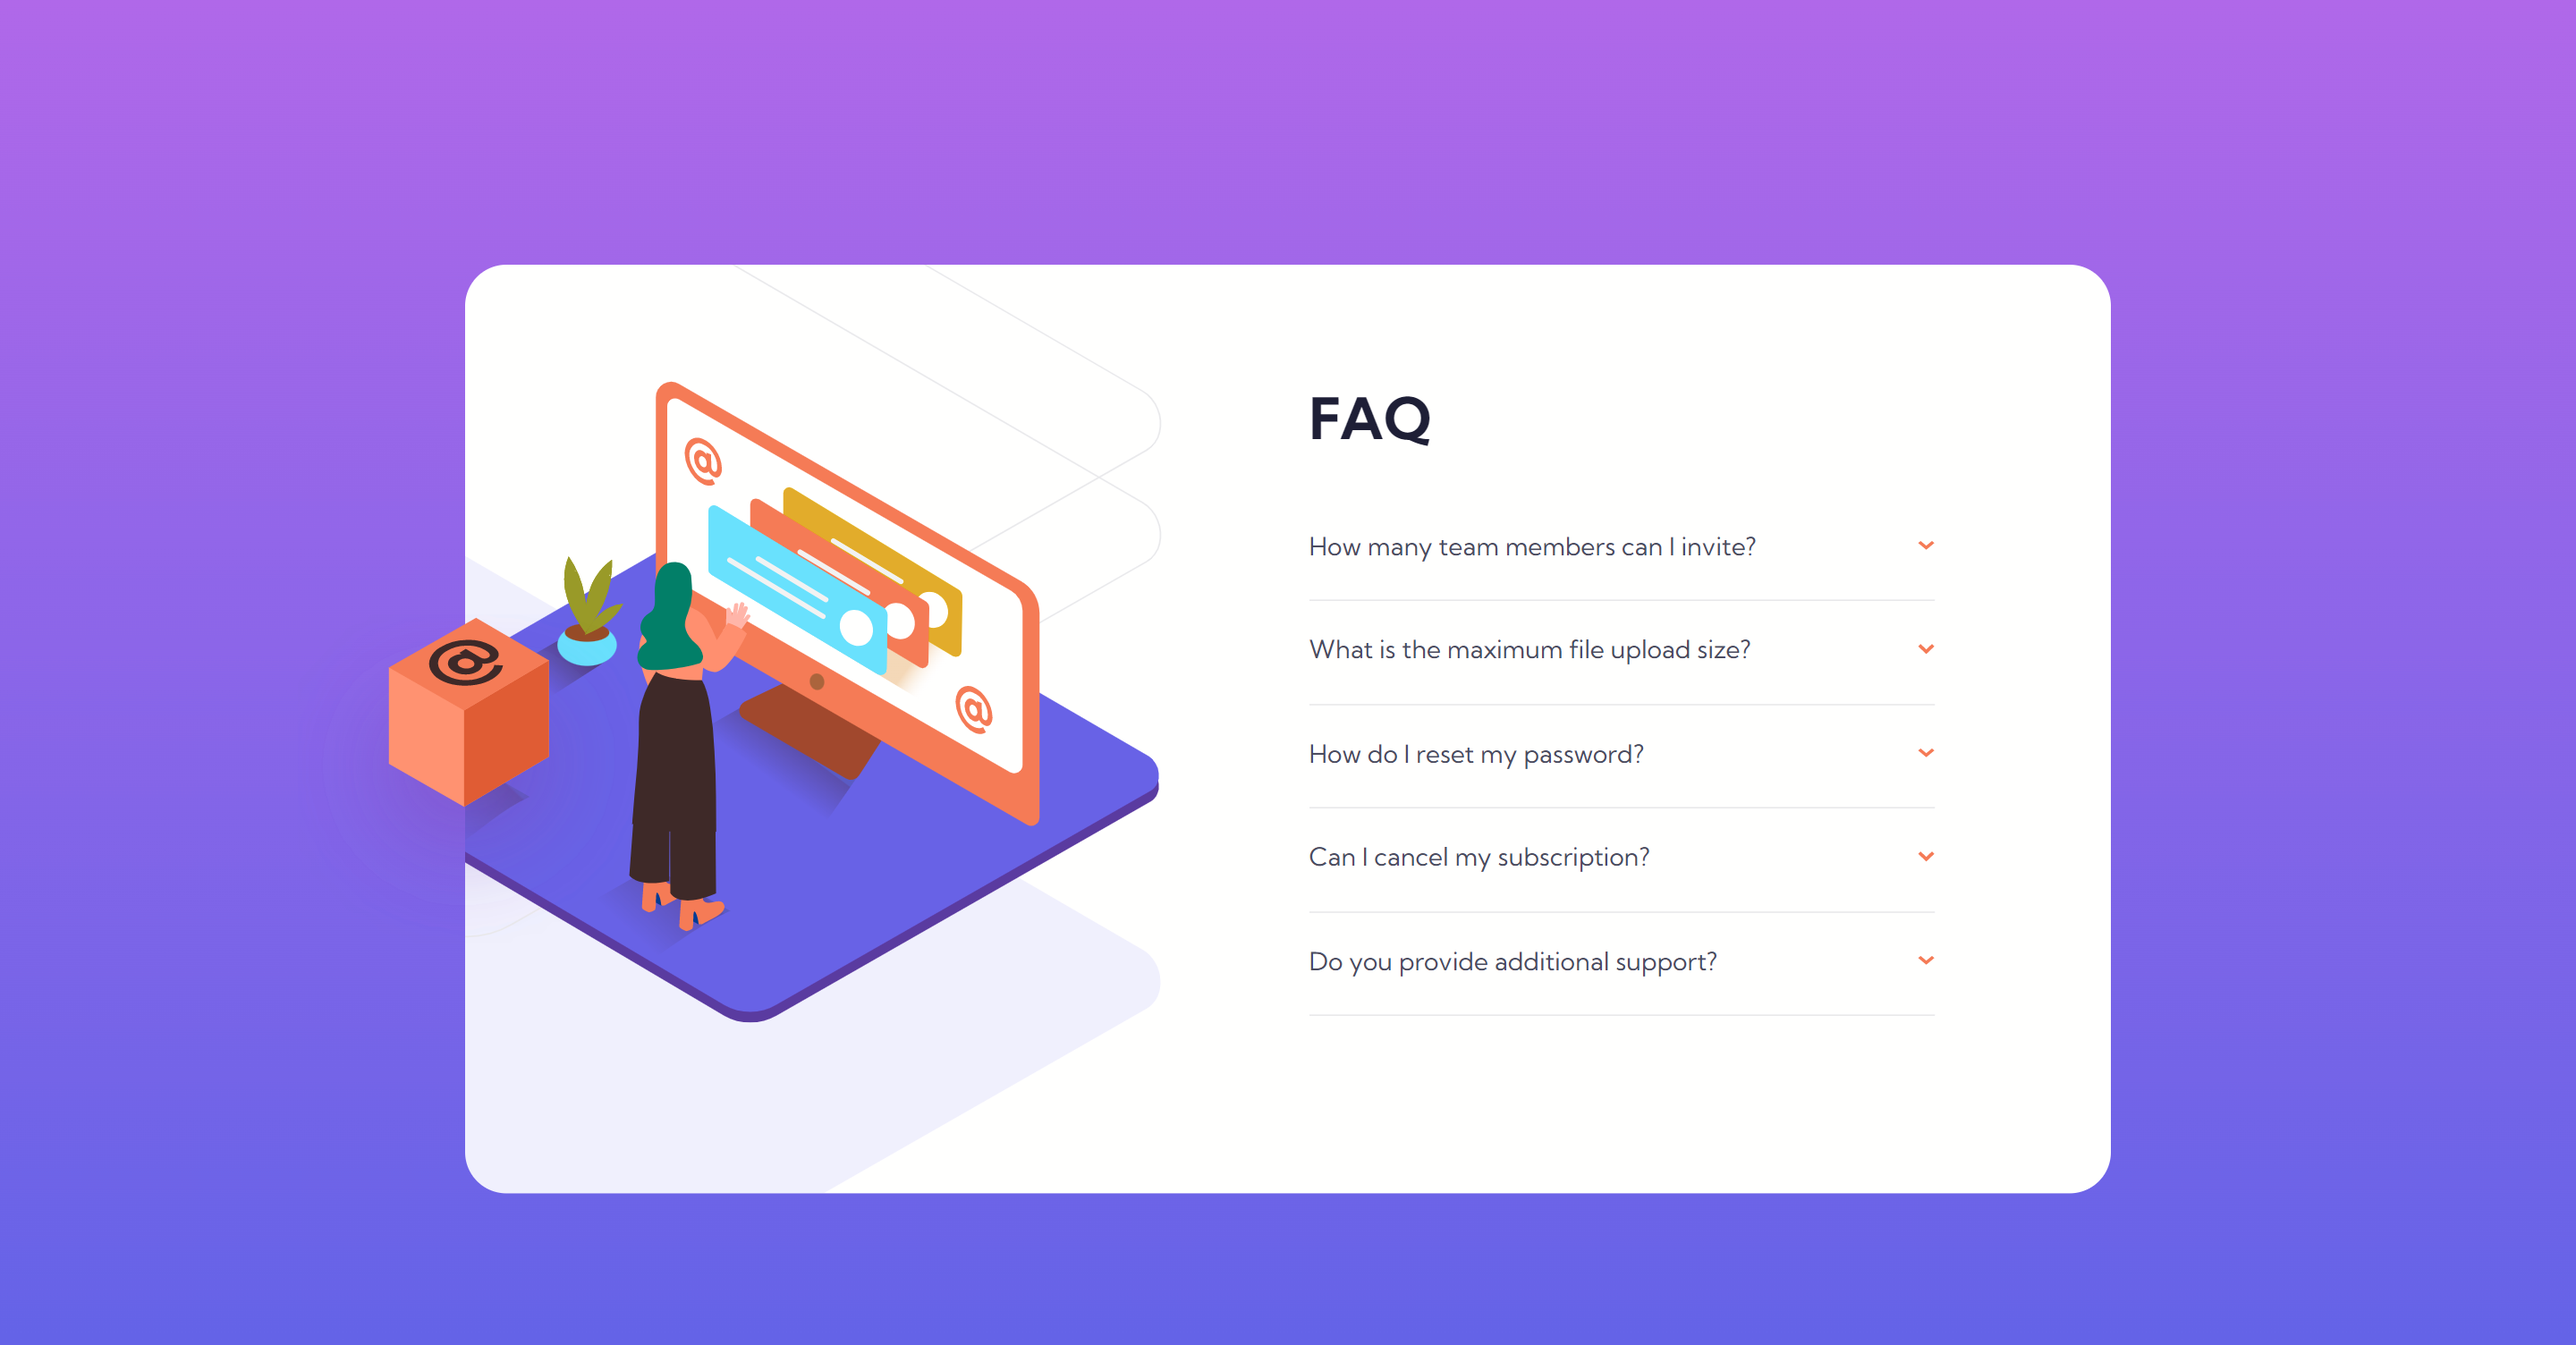
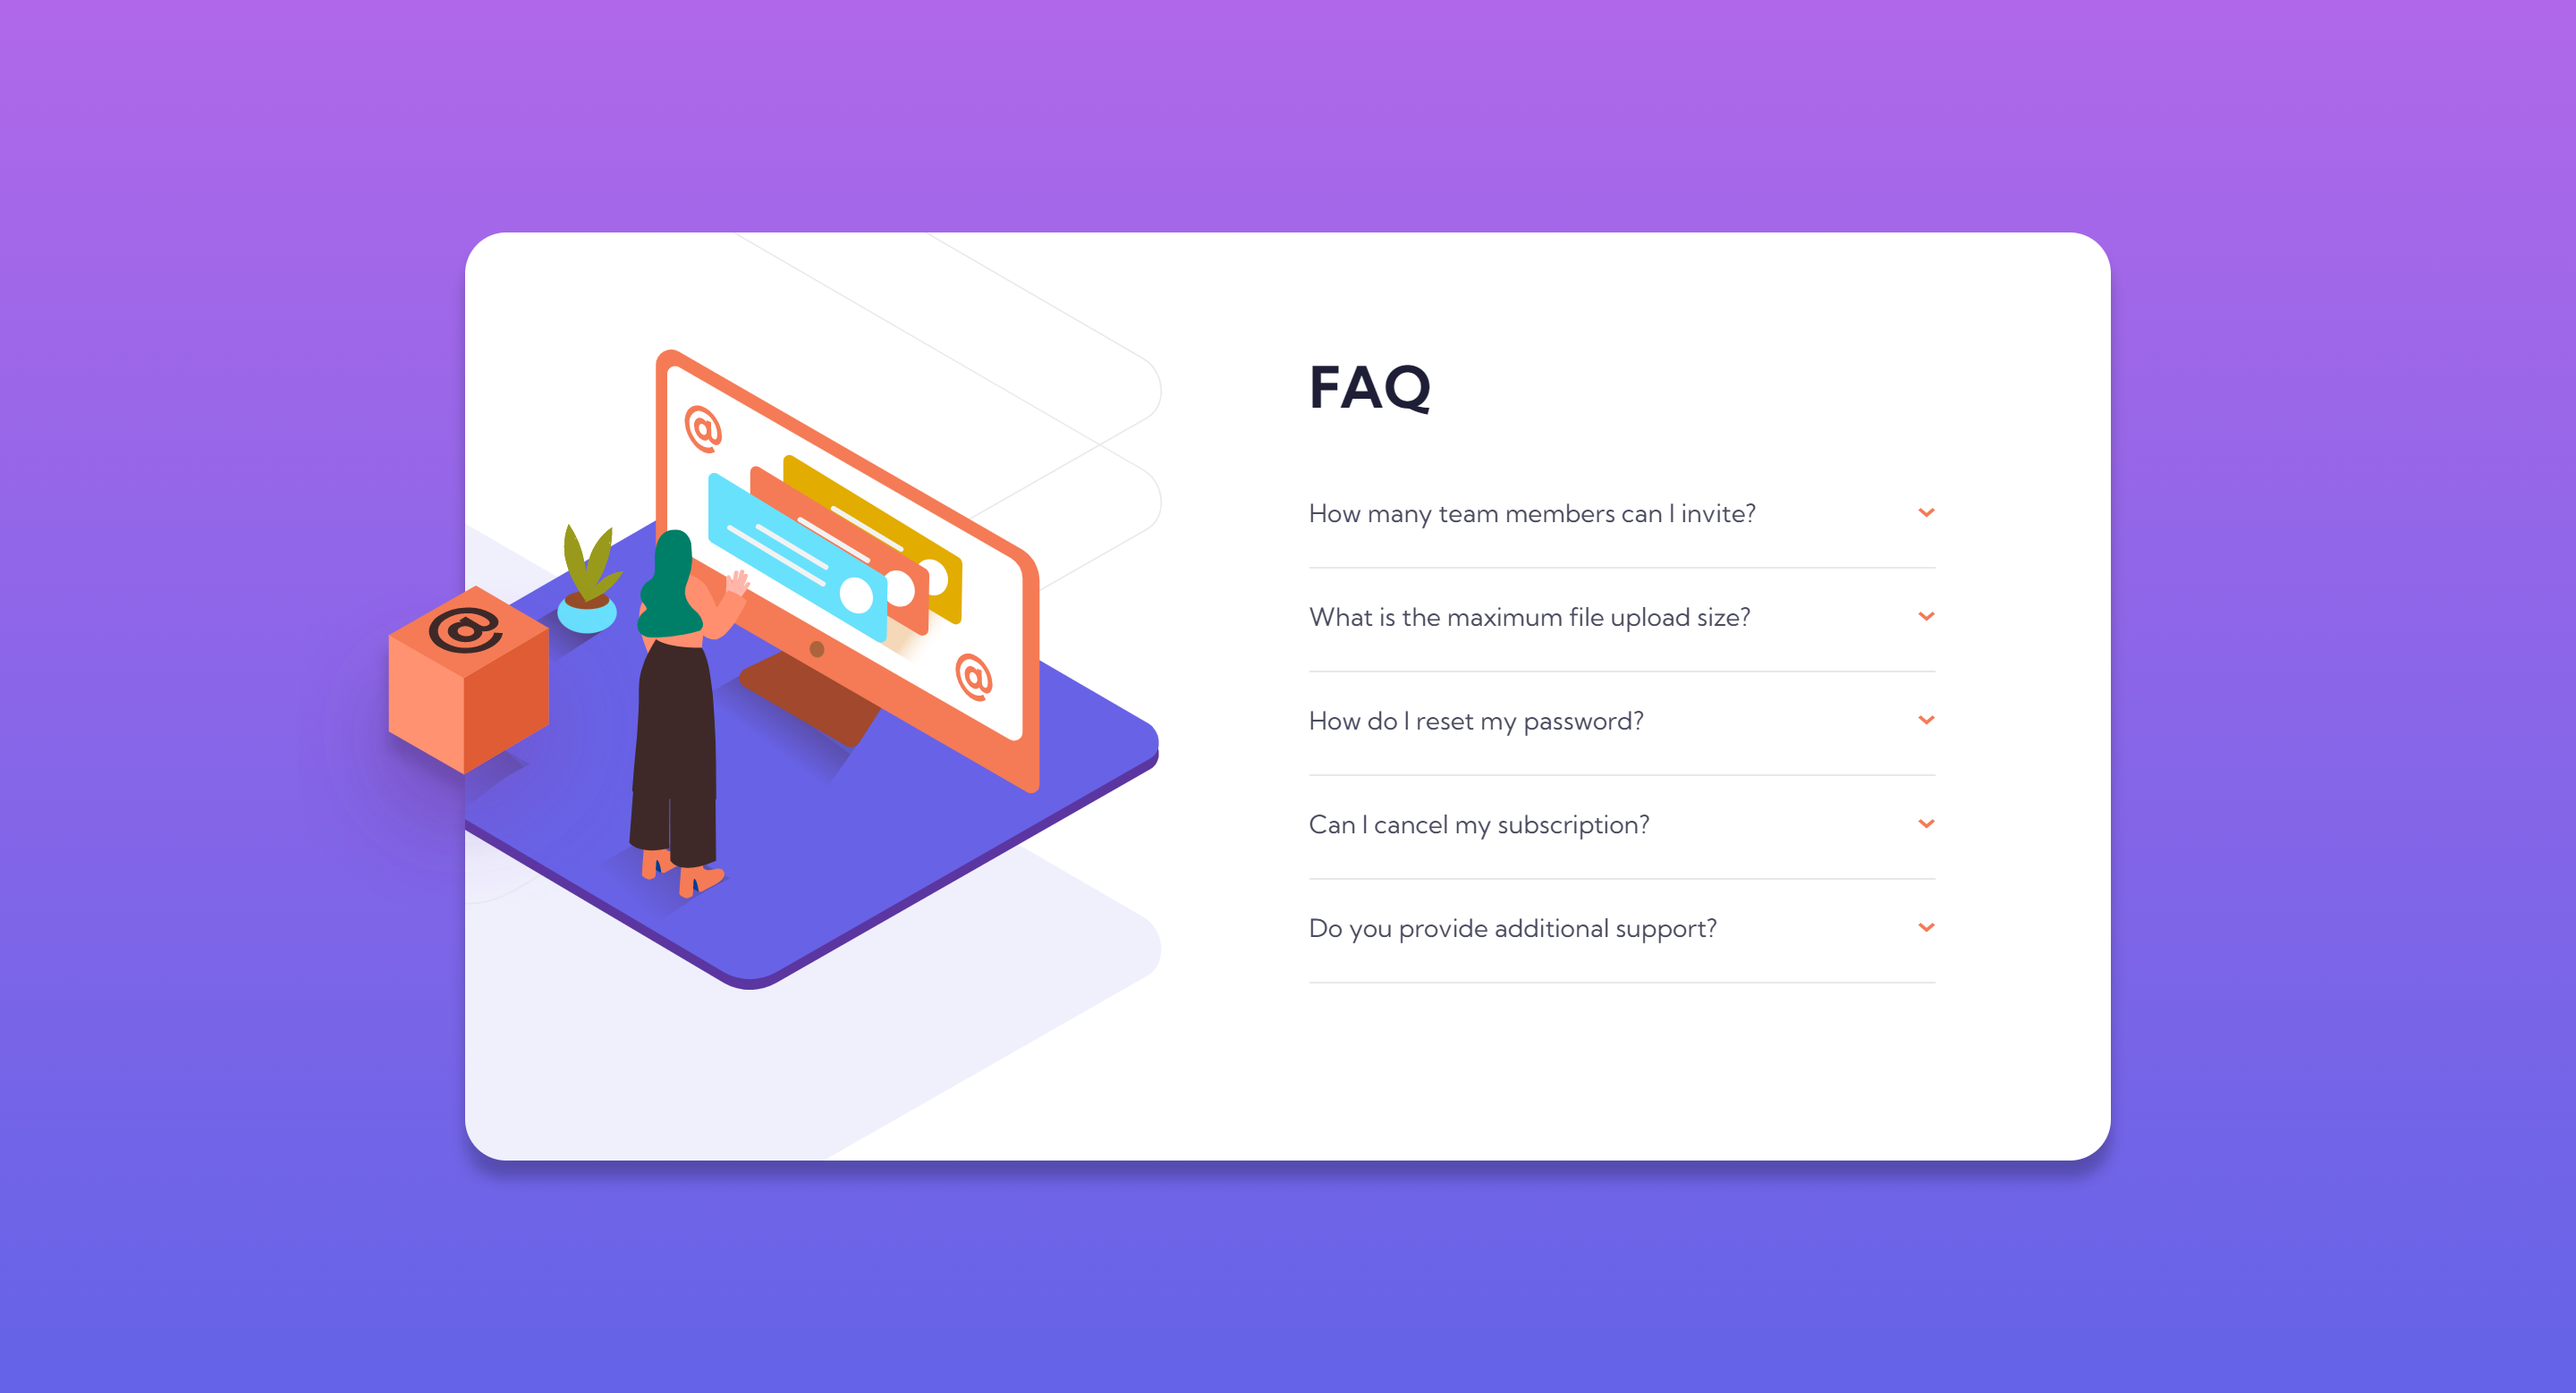
.

diff --git a/faq-accordion-card-main/queries.css b/faq-accordion-card-main/queries.css
@@ -4,12 +4,10 @@
   .accordion {
     display: grid;
     grid-template-columns: 1fr 0.95fr;
-    /* align-items: center;
-    justify-content: center; */
-    /* padding: 6.5rem 9.5rem 8rem 0; */
     position: relative;
     width: 92rem;
     padding: 0;
+    margin: 13rem;
   }
 
   .heading {

diff --git a/faq-accordion-card-main/style.css b/faq-accordion-card-main/style.css
@@ -30,6 +30,7 @@ body {
   margin-top: 14.8rem;
   margin-bottom: 8.5rem;
   width: 32.7rem;
+  filter: drop-shadow(0 10px 4px rgba(0, 0, 0, 0.25));
 }
 
 .box-img {

diff --git a/faq-accordion-card-main/README-template.md b/faq-accordion-card-main/README-template.md
@@ -1,6 +1,6 @@
 # Frontend Mentor - FAQ accordion card solution
 
-This is a solution to the [FAQ accordion card challenge on Frontend Mentor](https://www.frontendmentor.io/challenges/faq-accordion-card-XlyjD0Oam). Frontend Mentor challenges help you improve your coding skills by building realistic projects.
+This is a solution to the [FAQ accordion card challenge on Frontend Mentor](https://www.frontendmentor.io/challenges/faq-accordion-card-XlyjD0Oam).
 
 ## Table of contents
 
@@ -28,73 +28,18 @@ Users should be able to:
 
 ### Links
 
-- Solution URL: [Add solution URL here](https://your-solution-url.com)
-- Live Site URL: [Add live site URL here](https://your-live-site-url.com)
+- [Solution](https://github.com/maciejfedor/frontendmentor.io/tree/master/faq-accordion-card-main)
+- [Live Site](https://faq-accordion-card-maciej.netlify.app/)
 
 ## My process
 
 ### Built with
 
 - Semantic HTML5 markup
-- CSS custom properties
 - Flexbox
 - CSS Grid
-- Mobile-first workflow
-- [React](https://reactjs.org/) - JS library
-- [Next.js](https://nextjs.org/) - React framework
-- [Styled Components](https://styled-components.com/) - For styles
-
-**Note: These are just examples. Delete this note and replace the list above with your own choices**
-
-### What I learned
-
-Use this section to recap over some of your major learnings while working through this project. Writing these out and providing code samples of areas you want to highlight is a great way to reinforce your own knowledge.
-
-To see how you can add code snippets, see below:
-
-```html
-<h1>Some HTML code I'm proud of</h1>
-```
-
-```css
-.proud-of-this-css {
-  color: papayawhip;
-}
-```
-
-```js
-const proudOfThisFunc = () => {
-  console.log('🎉');
-};
-```
-
-If you want more help with writing markdown, we'd recommend checking out [The Markdown Guide](https://www.markdownguide.org/) to learn more.
-
-**Note: Delete this note and the content within this section and replace with your own learnings.**
-
-### Continued development
-
-Use this section to outline areas that you want to continue focusing on in future projects. These could be concepts you're still not completely comfortable with or techniques you found useful that you want to refine and perfect.
-
-**Note: Delete this note and the content within this section and replace with your own plans for continued development.**
-
-### Useful resources
-
-- [Example resource 1](https://www.example.com) - This helped me for XYZ reason. I really liked this pattern and will use it going forward.
-- [Example resource 2](https://www.example.com) - This is an amazing article which helped me finally understand XYZ. I'd recommend it to anyone still learning this concept.
-
-**Note: Delete this note and replace the list above with resources that helped you during the challenge. These could come in handy for anyone viewing your solution or for yourself when you look back on this project in the future.**
+- Javascript
 
 ## Author
 
-- Website - [Add your name here](https://www.your-site.com)
-- Frontend Mentor - [@yourusername](https://www.frontendmentor.io/profile/yourusername)
-- Twitter - [@yourusername](https://www.twitter.com/yourusername)
-
-**Note: Delete this note and add/remove/edit lines above based on what links you'd like to share.**
-
-## Acknowledgments
-
-This is where you can give a hat tip to anyone who helped you out on this project. Perhaps you worked in a team or got some inspiration from someone else's solution. This is the perfect place to give them some credit.
-
-**Note: Delete this note and edit this section's content as necessary. If you completed this challenge by yourself, feel free to delete this section entirely.**
+- Frontend Mentor - [@maciejfedor](https://www.frontendmentor.io/profile/maciejfedor)
